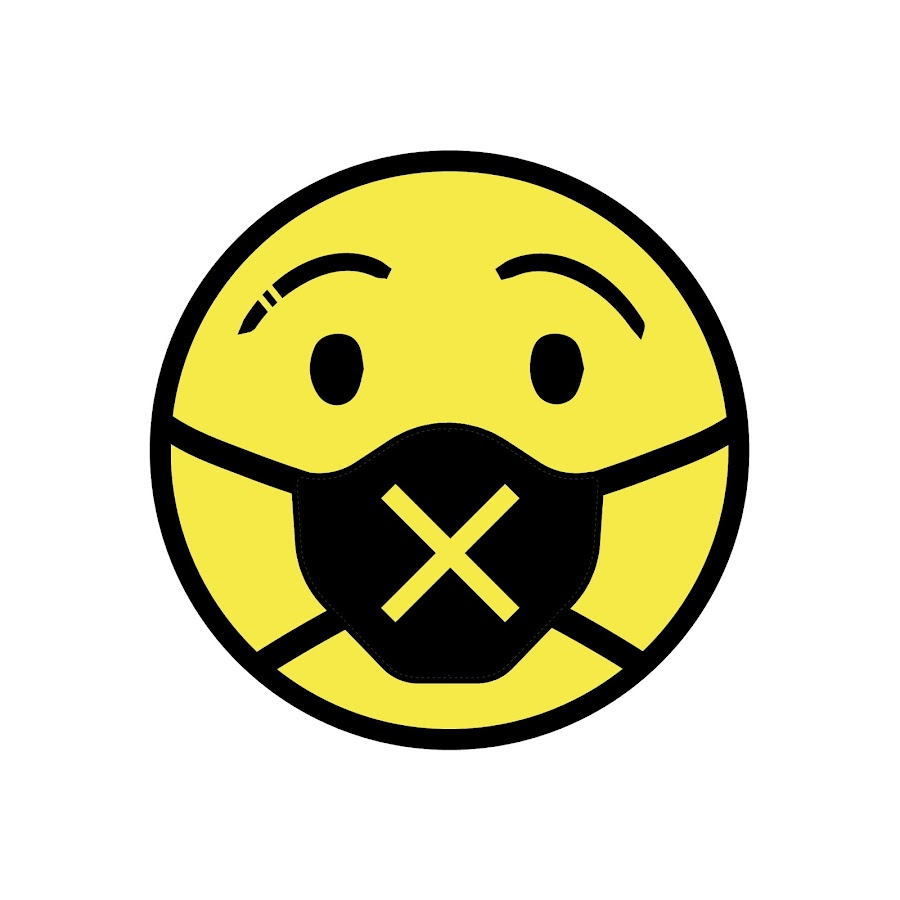
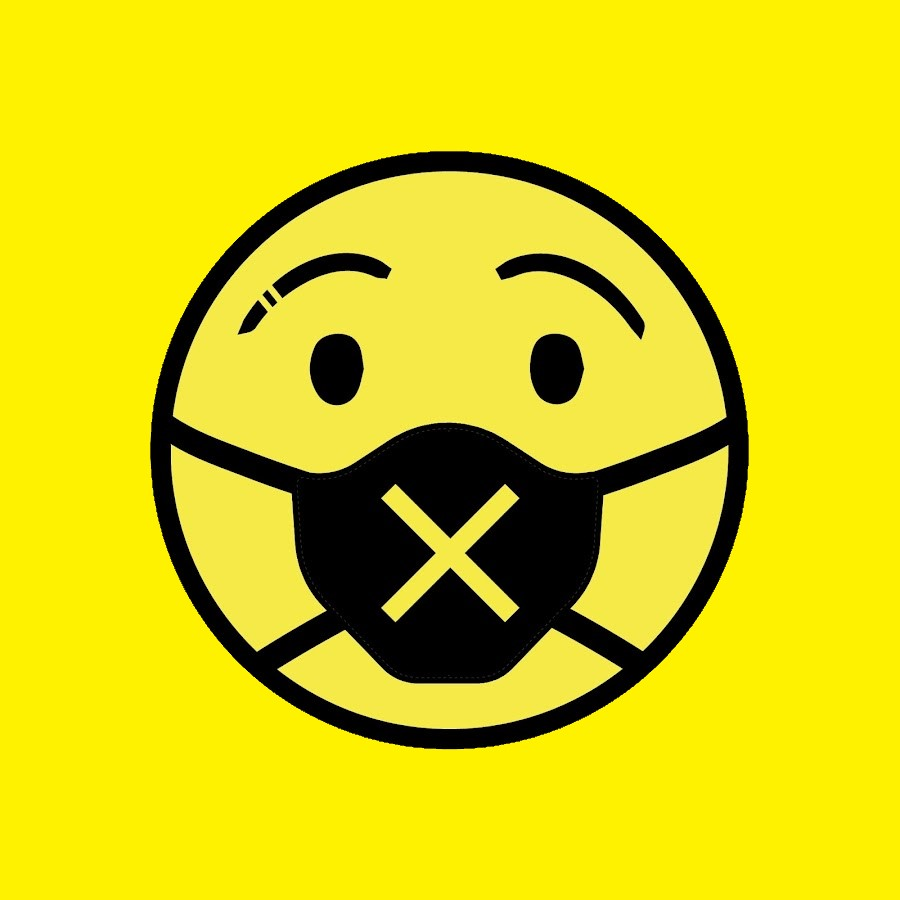
foto

diff --git a/index.html b/index.html
@@ -5,7 +5,7 @@
     <title>Los Xavales del Chino.</title>
     <meta http-equiv="content-type" content="text/html; charset=utf-8">
     <link rel="stylesheet" href="style.css" type="text/css" />
-    <link href="img/icono.png" type="icono/png" rel="icon">
+    <link href="img/icono.jpg" type="icono/png" rel="icon">
 </head>
 
 <body>
